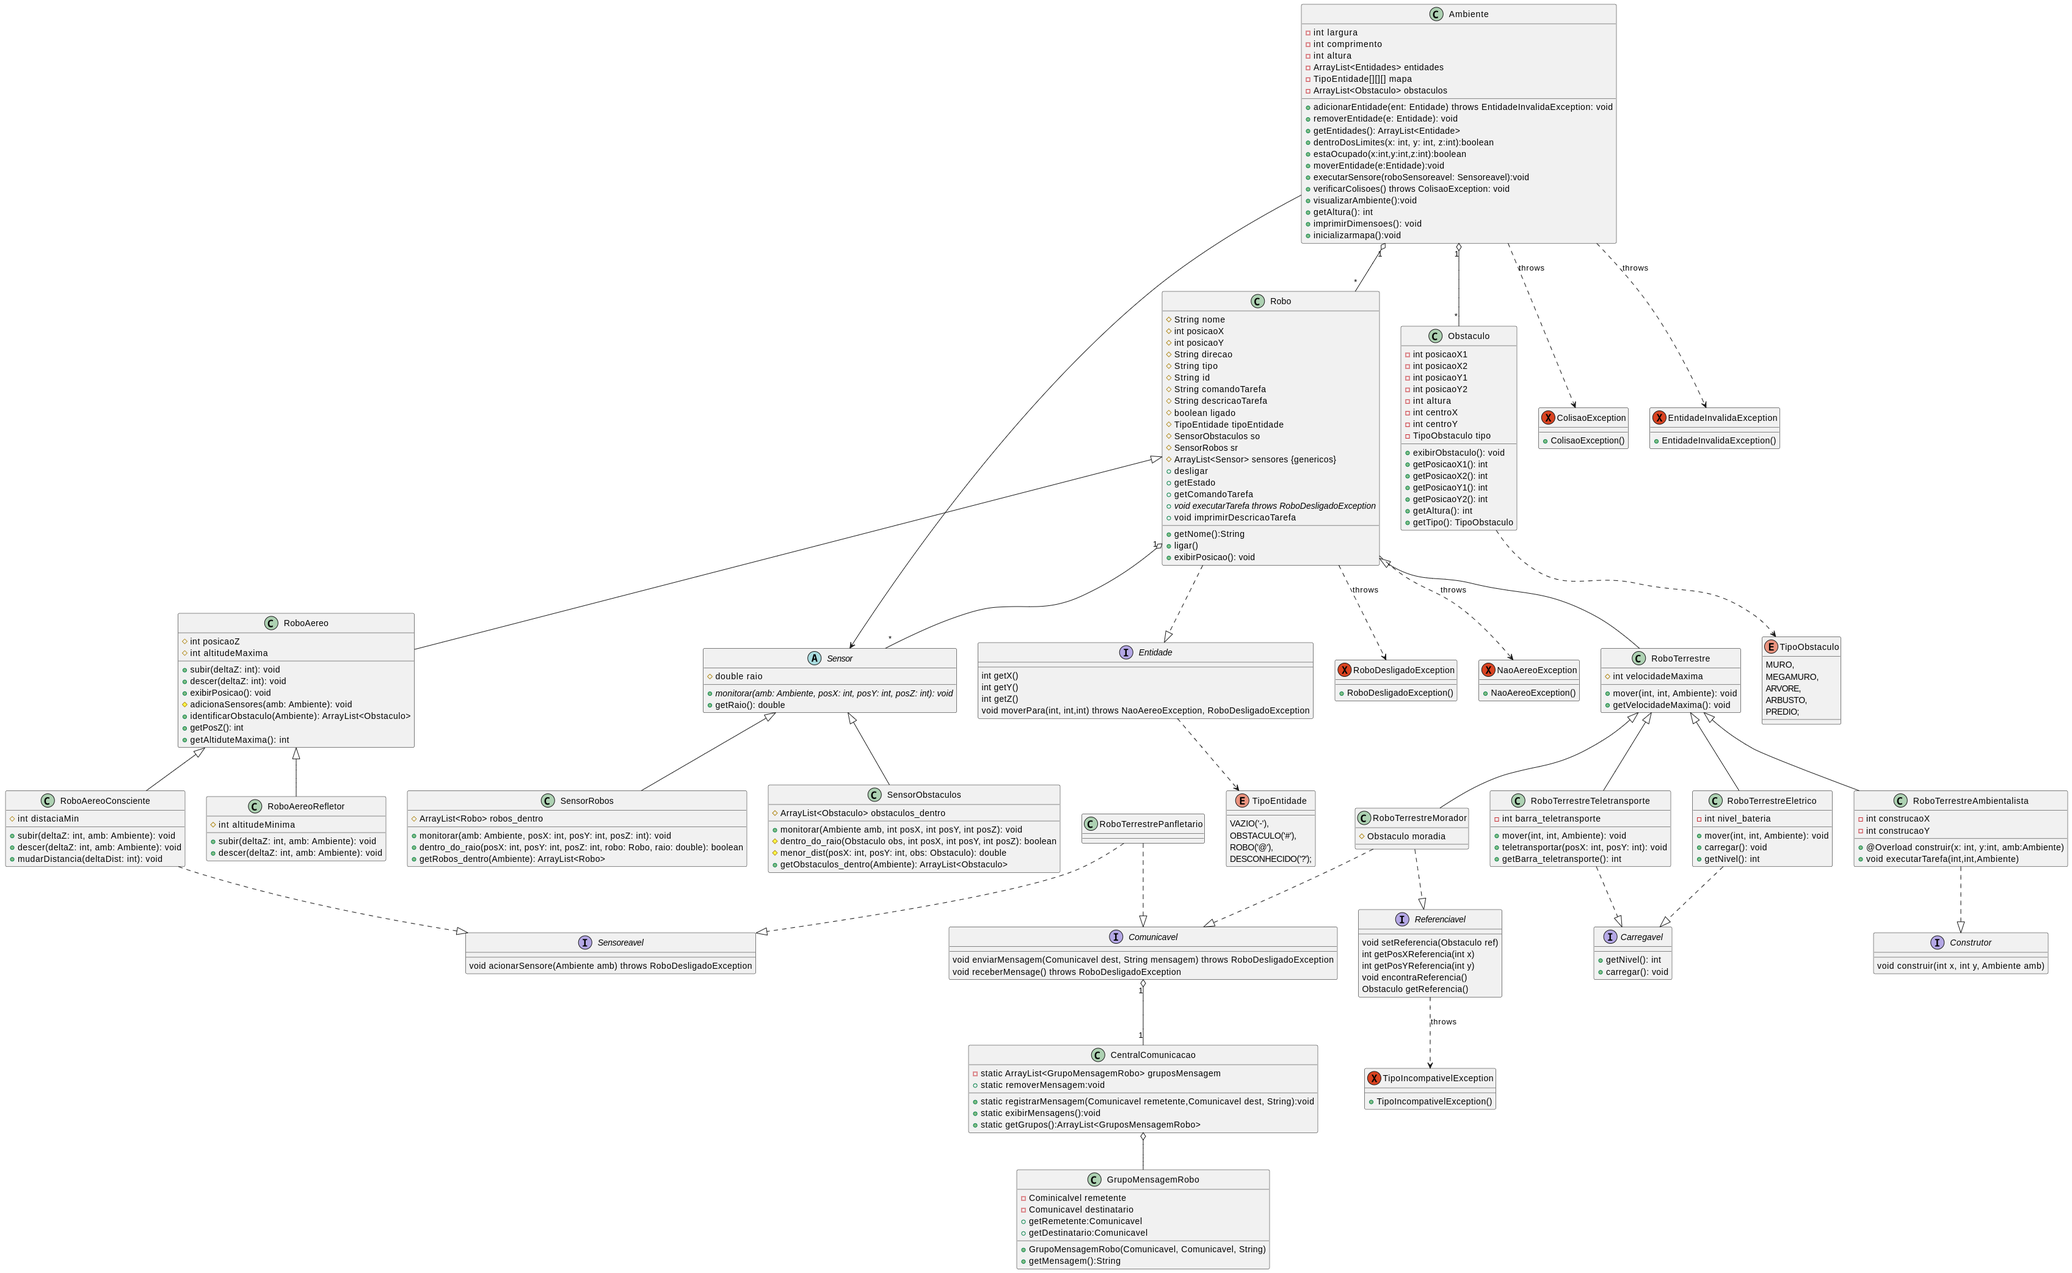
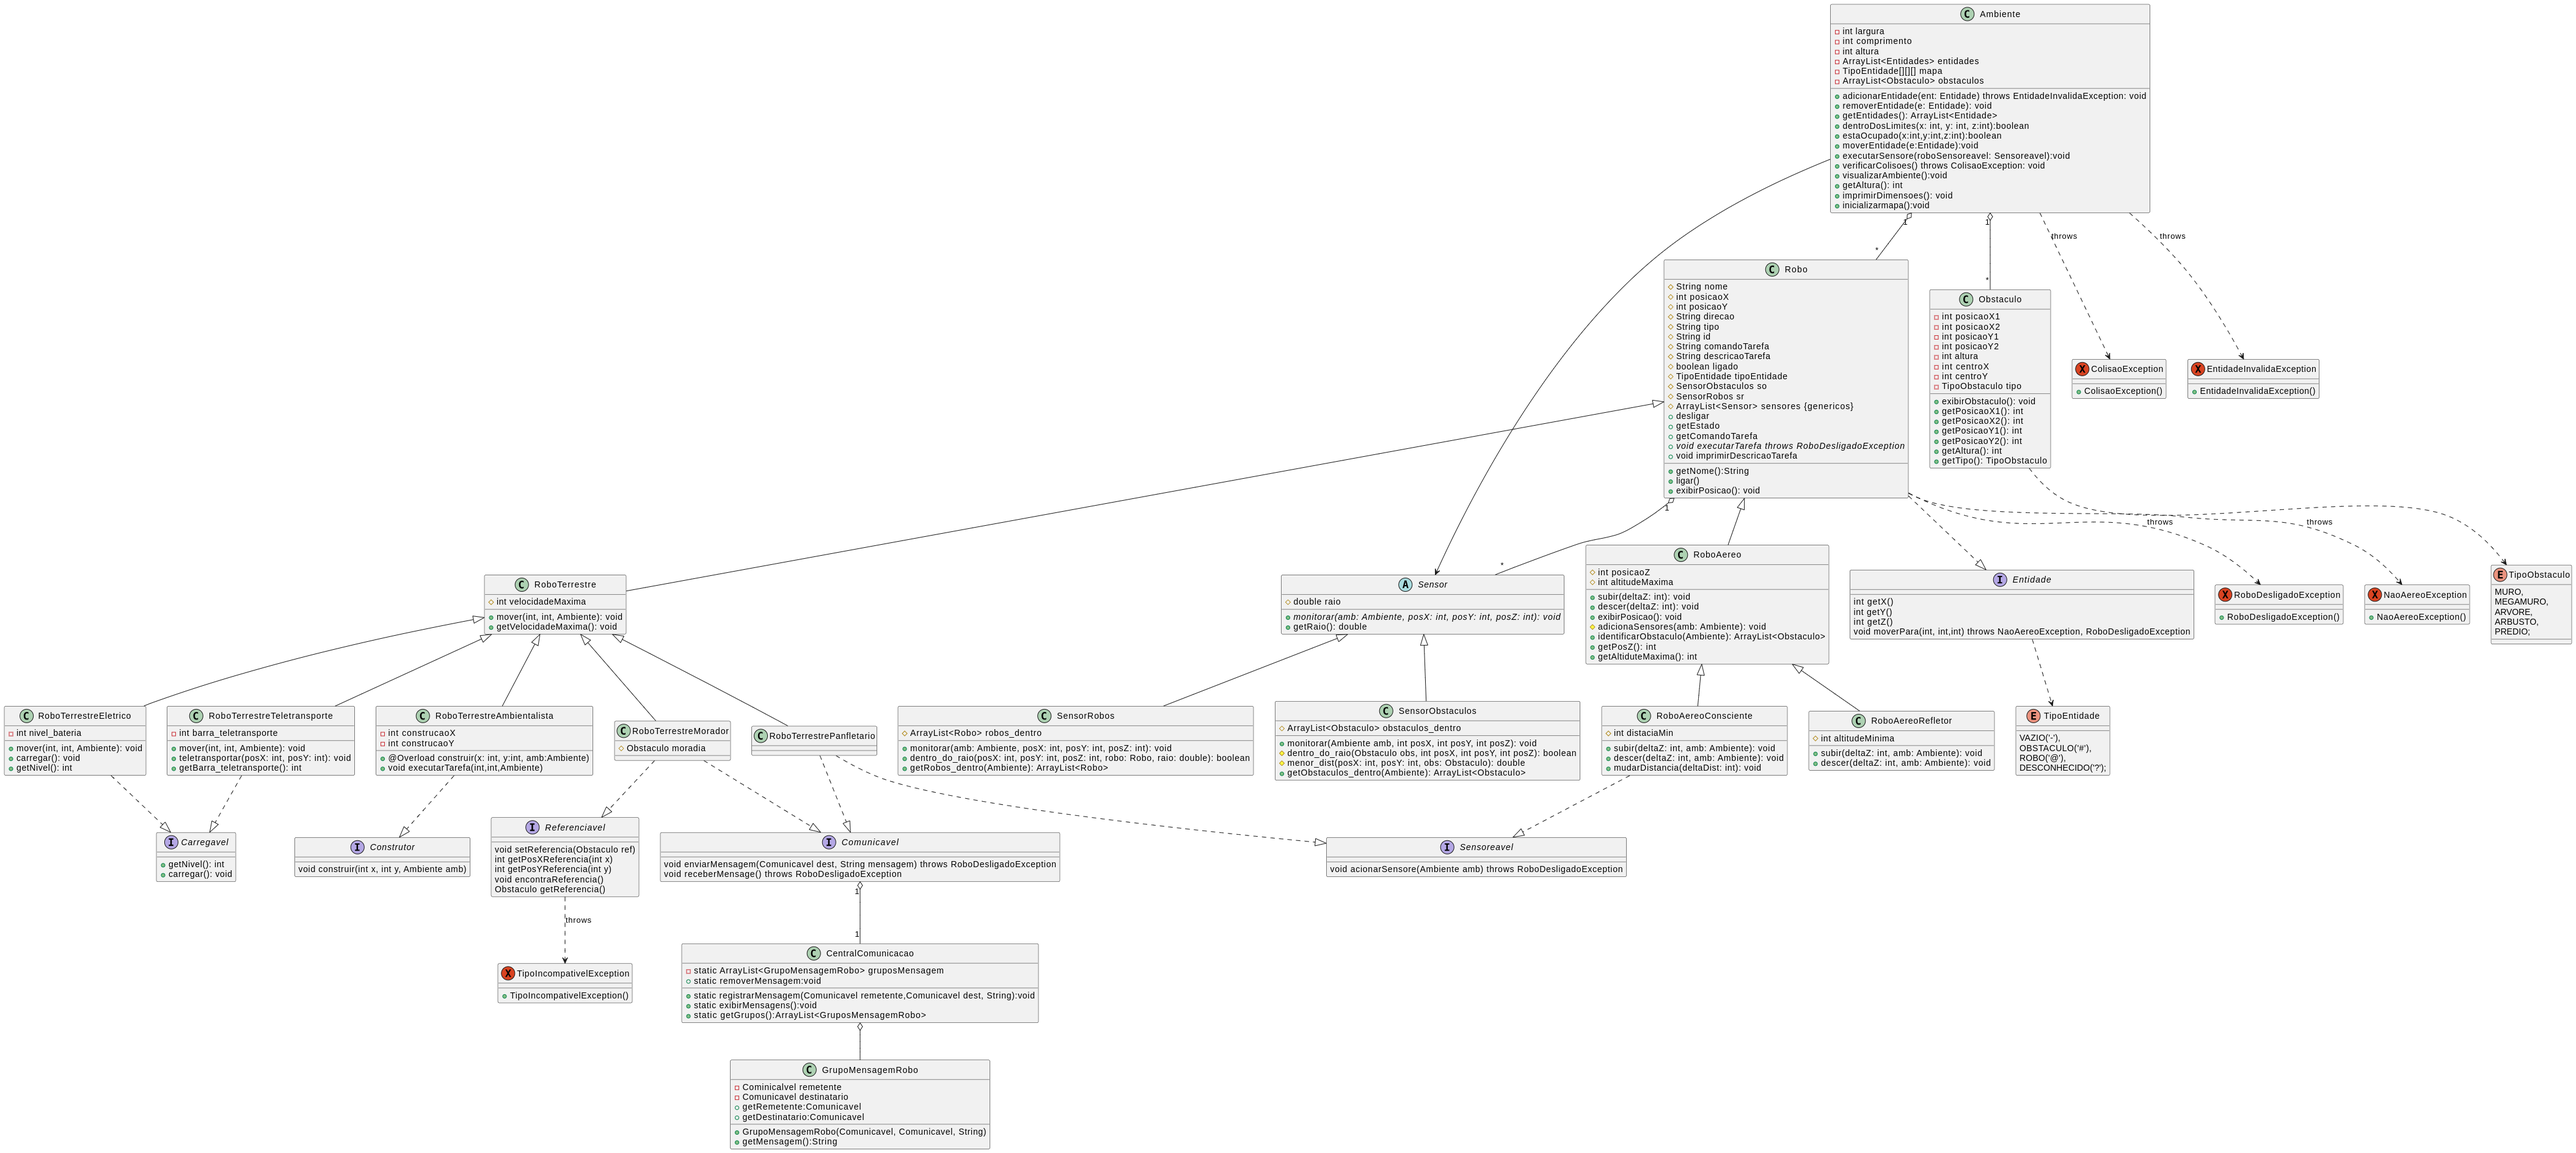
Alterei a imagem do README e consertei o nome do TipoIncompativelException

diff --git a/lab04/TipoIncompativelException.java b/lab04/TipoIncompativelException.java
@@ -1,5 +1,5 @@
-public class TipoInconpativelException extends Exception {
-    public TipoInconpativelException(String mensagem){
+public class TipoIncompativelException extends Exception {
+    public TipoIncompativelException(String mensagem){
         super(mensagem);
     }
 }
